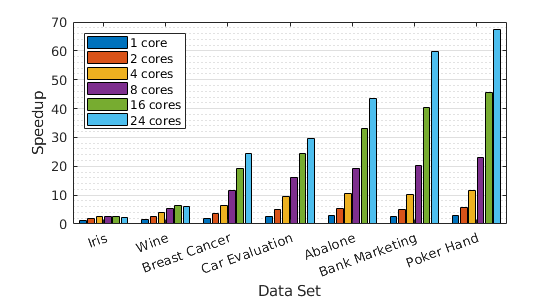
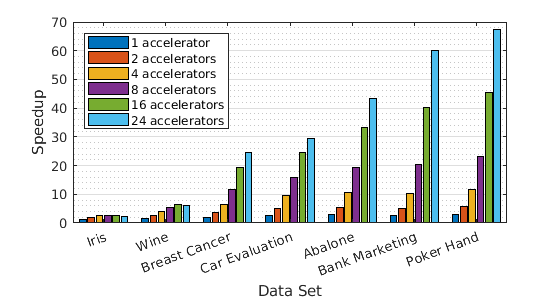
Updated labels on graphs

diff --git a/results/trace_graphs.m b/results/trace_graphs.m
@@ -84,9 +84,9 @@ results_pcfg1.energy   = processor_pcfg1.energy ./ accel_pcfg1.energy;
 % generate legend for number of cores
 for i=1:length(accel.cores)
     if accel.cores(i) == 1
-        results.legend_cores(i) = sprintf("%d core", accel.cores(i));
+        results.legend_cores(i) = sprintf("%d accelerator", accel.cores(i));
     else
-        results.legend_cores(i) = sprintf("%d cores", accel.cores(i));
+        results.legend_cores(i) = sprintf("%d accelerators", accel.cores(i));
     end
 end
 
@@ -244,9 +244,9 @@ xlim([0,9]);
 % generate legend for number of cores (pcfg1)
 for i=1:length(accel_pcfg1.cores)
     if accel_pcfg1.cores(i) == 1
-        results_pcfg1.legend_cores(i) = sprintf("%d core", accel_pcfg1.cores(i));
+        results_pcfg1.legend_cores(i) = sprintf("%d accelerator", accel_pcfg1.cores(i));
     else
-        results_pcfg1.legend_cores(i) = sprintf("%d cores", accel_pcfg1.cores(i));
+        results_pcfg1.legend_cores(i) = sprintf("%d accelerators", accel_pcfg1.cores(i));
     end
 end
 
